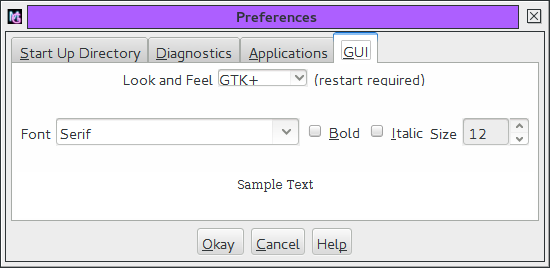
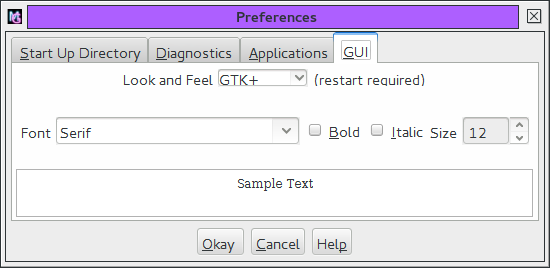
details now shows problem entries and allows regex

diff --git a/src/java/ViewEntries.java b/src/java/ViewEntries.java
@@ -3,16 +3,18 @@ package com.dickimawbooks.makeglossariesgui;
 import java.net.URL;
 import java.awt.*;
 import java.awt.event.*;
+import java.util.regex.*;
 
 import javax.swing.*;
 import javax.swing.table.*;
 
-public class ViewEntries extends JFrame
+public class ViewEntries extends JDialog
    implements ActionListener
 {
    public ViewEntries(MakeGlossariesGUI application, Glossary g, Font font)
    {
-      super(application.getLabelWithValue("entry.title", g.label));
+      super(application, application.getLabelWithValue("entry.title", g.label),
+         true);
 
       app = application;
       glossary = g;
@@ -25,6 +27,11 @@ public class ViewEntries extends JFrame
          public int getRowCount() {return entryLabels.length;}
          public int getColumnCount() {return 3;}
          public boolean isCellEditable(int row, int column) {return false;}
+
+         public Class<?> getColumnClass(int column)
+         {
+            return String.class;
+         }
 
          public Object getValueAt(int row, int column)
          {
@@ -60,6 +67,9 @@ public class ViewEntries extends JFrame
       };
 
       table = new JTable(model);
+      table.setDefaultRenderer(String.class, 
+        new EntryTableCellRenderer(this));
+      table.setFont(app.getFont());
 
       getContentPane().add(new JScrollPane(table), "Center");
 
@@ -70,7 +80,7 @@ public class ViewEntries extends JFrame
       label.setDisplayedMnemonic(app.getMnemonic("entry", "find_label"));
       toolbar.add(label);
 
-      searchField = new JTextField();
+      searchField = new JTextField(32);
       searchField.registerKeyboardAction(this, "find", 
          KeyStroke.getKeyStroke(KeyEvent.VK_ENTER, 0),
          JComponent.WHEN_FOCUSED);
@@ -131,7 +141,33 @@ public class ViewEntries extends JFrame
       {
          String label = searchField.getText();
 
-         int idx = glossary.getEntryIdx(label);
+         int start = table.getSelectedRow();
+
+         int idx = -1;
+
+         Pattern p = Pattern.compile(label);
+
+         for (int i = start+1; i < entryLabels.length; i++)
+         {
+            Matcher m = p.matcher(entryLabels[i]);
+
+            if (m.find())
+            {
+               idx = i;
+               break;
+            }
+         }
+
+         for (int i = 0; idx == -1 && i <= start; i++)
+         {
+            Matcher m = p.matcher(entryLabels[i]);
+
+            if (m.find())
+            {
+               idx = i;
+               break;
+            }
+         }
 
          if (idx == -1)
          {
@@ -148,6 +184,13 @@ public class ViewEntries extends JFrame
       }
    }
 
+   public boolean hasProblem(int row)
+   {
+      String label = entryLabels[row];
+
+      return glossary.hasProblem(label);
+   }
+
    private Glossary glossary;
 
    private String[] entryLabels;
@@ -159,4 +202,33 @@ public class ViewEntries extends JFrame
    private MakeGlossariesGUI app;
 
    private JToolBar toolbar;
+}
+
+class EntryTableCellRenderer extends DefaultTableCellRenderer
+{
+   public EntryTableCellRenderer(ViewEntries view)
+   {
+      super();
+      this.view = view;
+   }
+
+   public Component getTableCellRendererComponent(JTable table, Object value, 
+     boolean isSelected, boolean hasFocus, int row, int column)
+   {
+      Component comp = super.getTableCellRendererComponent(table,
+        value, isSelected, hasFocus, row, column);
+
+      if (column == 1 && view.hasProblem(row))
+      {
+         setForeground(Color.red);
+      }
+      else
+      {
+         setForeground(Color.black);
+      }
+
+      return comp;
+   }
+
+   private ViewEntries view;
 }

diff --git a/src/java/Glossary.java b/src/java/Glossary.java
@@ -244,6 +244,7 @@ public class Glossary
                         addDiagnosticMessage(invoker.getLabelWithValues(
                           "diagnostics.empty_sort", 
                            sort, key));
+                        entry.setHasProblem(true);
                      }
                   }
                }
@@ -620,6 +621,13 @@ public class Glossary
       return entry == null ? null : entry.getSort();
    }
 
+   public boolean hasProblem(String key)
+   {
+      GlossaryEntry entry = entryTable.get(key);
+
+      return entry == null ? false : entry.hasProblem();
+   }
+
    public Integer getEntryCount(int entryIdx)
    {
       int i = 0;
@@ -810,6 +818,7 @@ class GlossaryEntry
       this.label = label;
       this.sort = sort;
       this.count = 0;
+      this.hasProblem = false;
    }
 
    public void increment()
@@ -832,7 +841,18 @@ class GlossaryEntry
       return label;
    }
 
-   int count = 0;
-   String label, sort;
+   public boolean hasProblem()
+   {
+      return hasProblem;
+   }
+
+   public void setHasProblem(boolean hasProblem)
+   {
+      this.hasProblem = hasProblem;
+   }
+
+   private int count = 0;
+   private String label, sort;
+   private boolean hasProblem;
 }
 

diff --git a/src/java/PropertiesDialog.java b/src/java/PropertiesDialog.java
@@ -238,6 +238,7 @@ public class PropertiesDialog extends JDialog
       fontSample = new JLabel(app.getLabel("properties.font.sample"));
       p.setBackground(Color.white);
       p.setOpaque(true);
+      p.setBorder(BorderFactory.createEtchedBorder());
       p.add(fontSample);
 
       updateFontSample();
@@ -551,6 +552,11 @@ public class PropertiesDialog extends JDialog
         style, ((Number)fontSizeBox.getValue()).intValue()));
 
       fontSample.repaint();
+   }
+
+   public void updateFontSize(int size)
+   {
+      fontSizeBox.setValue(size);
    }
 
    private void updateXindyModule()

diff --git a/src/java/MakeGlossariesGUI.java b/src/java/MakeGlossariesGUI.java
@@ -280,6 +280,7 @@ public class MakeGlossariesGUI extends JFrame
          int size = font.getSize()+1;
 
          invoker.getProperties().setFontSize(size);
+         propertiesDialog.updateFontSize(size);
 
          updateFont();
       }
@@ -294,6 +295,7 @@ public class MakeGlossariesGUI extends JFrame
          }
 
          invoker.getProperties().setFontSize(size);
+         propertiesDialog.updateFontSize(size);
 
          updateFont();
       }
